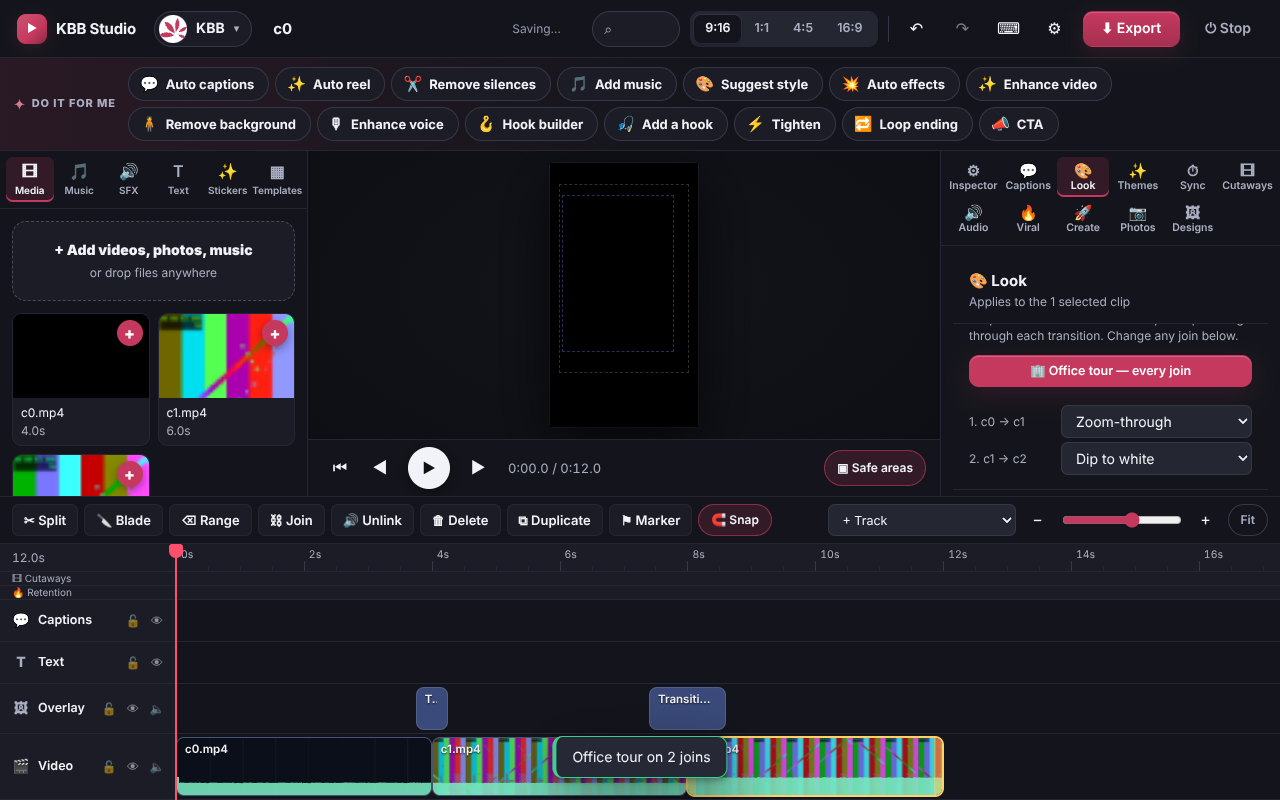
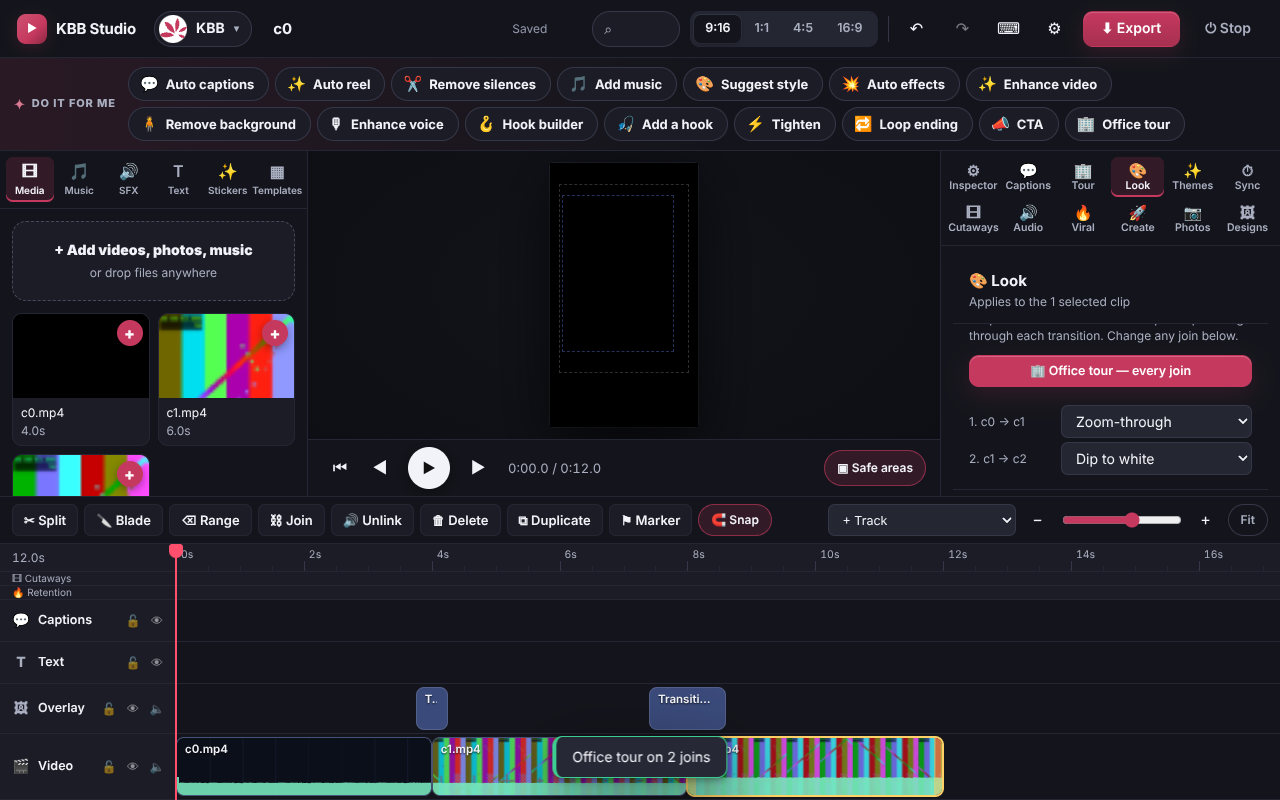
KBB Studio Office tour: the joins list redraws safely while a length box is being edited
Claude-Session: https://claude.ai/code/session_01YFPqRcei6ARXFZpX54gQ57

diff --git a/studio/reel-studio/app/tour/index.js b/studio/reel-studio/app/tour/index.js
@@ -183,21 +183,31 @@ export function tourPanel(el, ctx) {
   import('../look/looks.js').then((L) => { const opts = L.LOOKS.map((x) => [x.id, x.label]); clear(lookSel); for (const [v, t] of opts) lookSel.append(h('option', { value: v }, t)); lookSel.value = st.look; }).catch(() => {});
 
   const names = () => [...rooms.querySelectorAll('input[data-room]')].map((i) => i.value);
+  // re-entrant safe: removing a focused length box fires its change (blur) while the list is being rebuilt, and that
+  // change applies an edit that renders again — the nested render is folded into one after this one
+  let rendering = false, again = false;
   function render() {
+    if (rendering) { again = true; return; }
+    rendering = true;
+    try { do { again = false; draw(); } while (again); } finally { rendering = false; }
+  }
+  function draw() {
     const p = ctx.project, cl = clipsOf(p), js = joins(p);
     const dur = cl.length ? itemEnd(cl[cl.length - 1]) - cl[0].t0 : 0;
     head.textContent = `${cl.length} clip${cl.length === 1 ? '' : 's'} · ${js.length} join${js.length === 1 ? '' : 's'} · ${dur.toFixed(1)} s`;
-    clear(list);
-    if (!js.length) list.append(h('p.tour-note', 'Put your clips one after another on the timeline (drag them in, in walking order). Each join gets a row here.'));
+    const rows = [];
+    if (!js.length) rows.push(h('p.tour-note', 'Put your clips one after another on the timeline (drag them in, in walking order). Each join gets a row here.'));
     for (const j of js) {
       const sel = select([['', 'Cut'], ...Object.entries(KINDS).map(([k, v]) => [k, v.label])], j.kind || '', (v) => run('Join', async () => { await setJoin(ctx, j.i, v || null); return `Join ${j.i + 1}: ${v ? KINDS[v].label : 'Cut'}`; }));
       sel.dataset.join = String(j.i);
       const len = h('input', { type: 'number', min: '0.2', max: '2', step: '0.1', value: j.dur ? j.dur.toFixed(1) : '', placeholder: '—', disabled: !j.kind, title: 'Length in seconds', dataset: { len: String(j.i) } });
       len.addEventListener('change', () => { const v = Math.max(0.2, Math.min(2, +len.value || 0)); if (v) run('Join', async () => { await setJoin(ctx, j.i, undefined, v); }); });
-      list.append(h('div.tour-join', { title: `${j.a.name || ''} → ${j.b.name || ''} at ${j.t.toFixed(2)} s` },
+      rows.push(h('div.tour-join', { title: `${j.a.name || ''} → ${j.b.name || ''} at ${j.t.toFixed(2)} s` },
         h('span.nm', `${j.i + 1}. ${plain(j.a)} → ${plain(j.b)}`), sel, len,
         h('button.btn.play', { title: 'Watch this join', dataset: { watch: String(j.i) }, on: { click: () => watchJoin(ctx, j.i) } }, '▶')));
     }
+    if (list.contains(document.activeElement)) document.activeElement.blur();   // its change runs now, folded in
+    list.replaceChildren(...rows);
     if (!rooms.contains(document.activeElement)) {
       const have = roomNames(p); clear(rooms);
       cl.forEach((c, i) => rooms.append(h('label.tour-room', h('span', String(i + 1)), h('input', { value: have[i] || '', placeholder: plain(c) === 'Room' ? `Room ${i + 1} name` : plain(c), dataset: { room: String(i) } }))));
